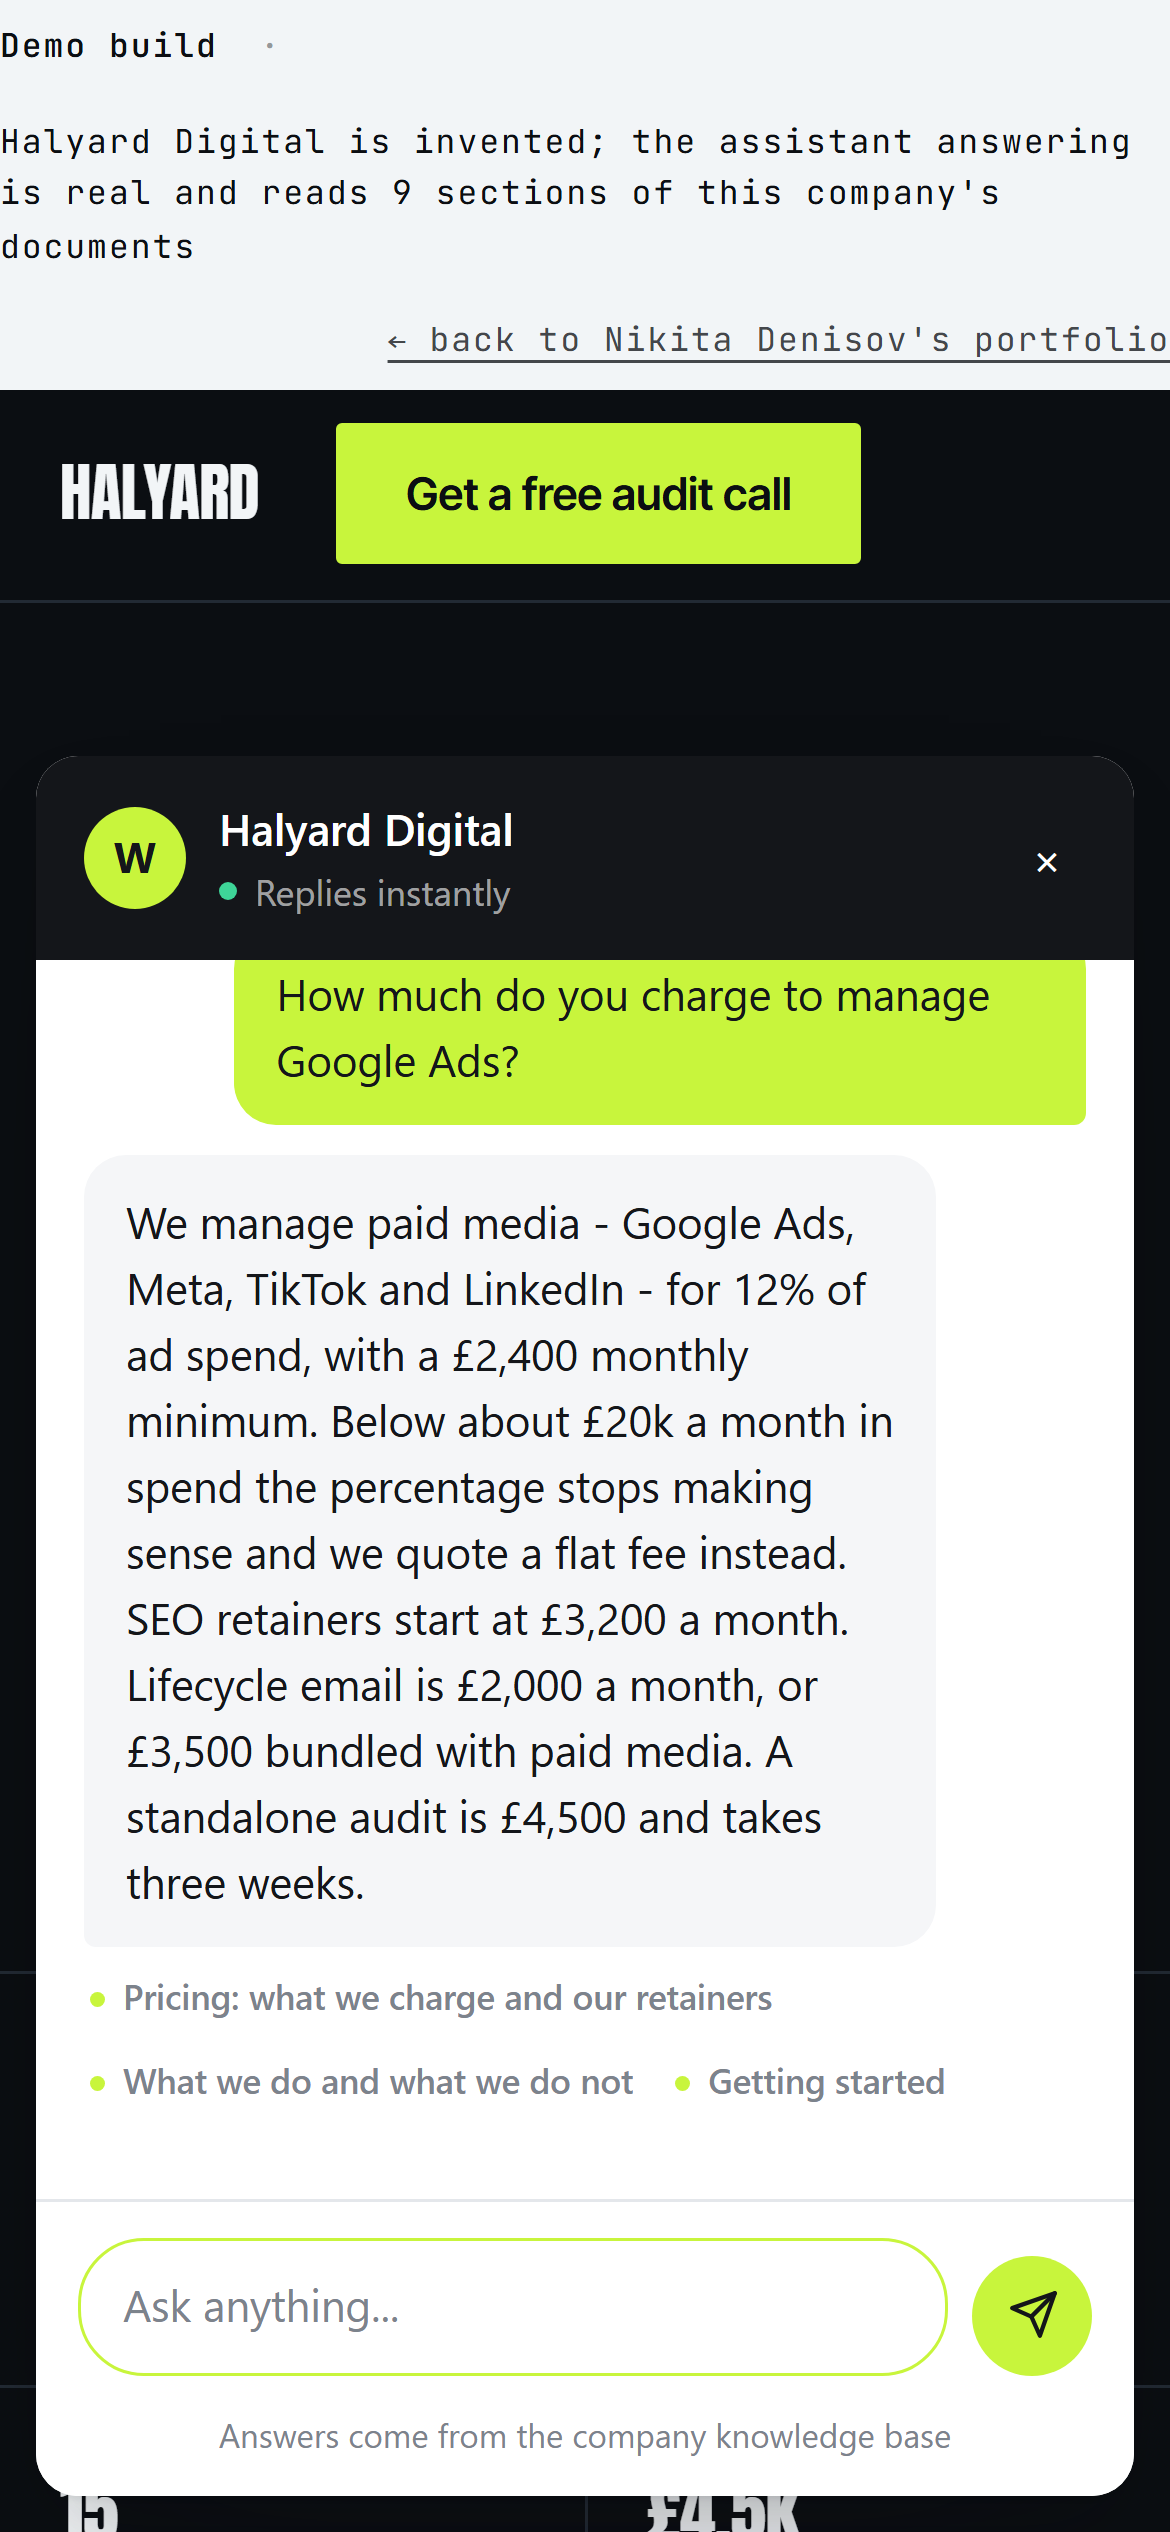
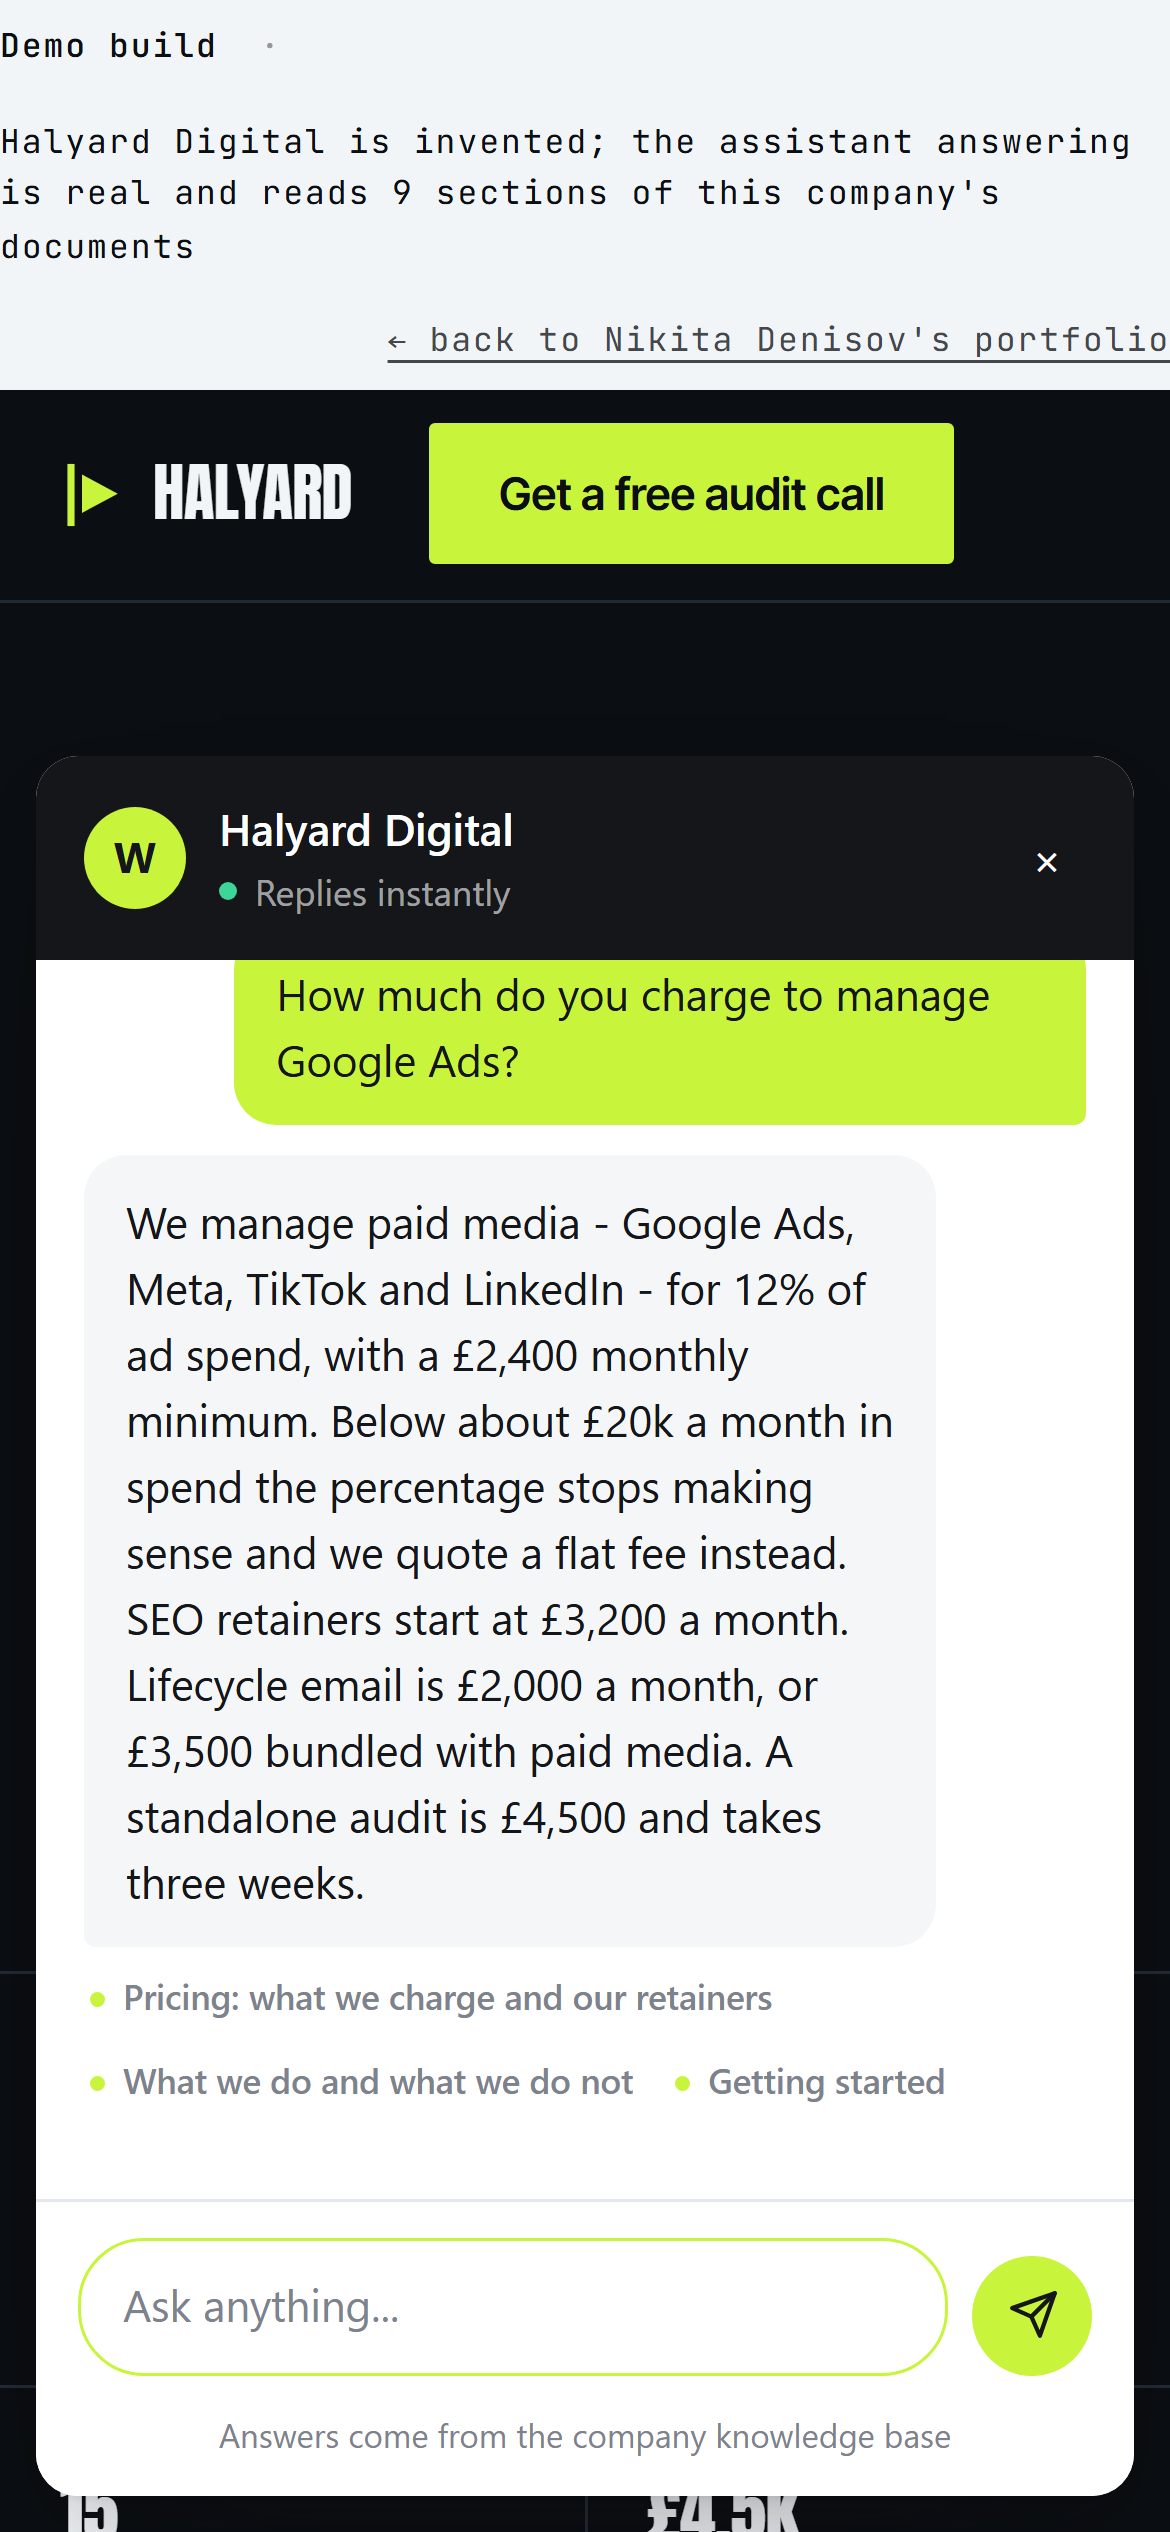
Give each demo business a logomark drawn from its own name
Six marks, one per company, as inline SVG coloured by currentColor so each one
takes its own brand accent. On the front page the mark replaces the colour chip
on the instance card, which identified nothing; on a business page it forms a
nav lockup with the wordmark and reappears quietly in the footer.

Five independent companies would not share a drawing style, so these do not:
Halyard is solid and blunt to hold its own next to Anton, Latchkey a rounded
monoline, Kestrel engraved fine-line for the high-contrast serif, Northlight
flat geometric, Havenridge two flat peaks with depth. Each derives from the
company's name rather than from the usual stock vocabulary.

Two of them took three attempts, and the failures are worth recording because
they were the same failure twice: at 24px the eye snaps to the closest letter
or figure it already knows. Kestrel as a soft hovering bird read as an "n",
then as sharp swept wings it read as a "Y" - so it is now an engraved monogram
on a stationery rule, which cannot be misread and is what an estate agency of
that vintage would have used. Northlight as a lamp throwing three rays read as
a stick figure - head, body, two legs - so it is now the studio north window
with one pane lit. The four-point star it started as was worse than either: it
is the most over-used mark in the industry right now.

SVG rather than generated art: no API key, no bill, and a mark that can take
its colour from the brand it belongs to.
[…]

Changed region(s): [[0.0308, 0.156, 0.8308, 0.2496]]

diff --git a/web/business.html b/web/business.html
@@ -166,6 +166,15 @@
   .band p { margin: 12px 0 0; opacity: .88; max-width: 54ch; }
   .band .btn { background: var(--accent-ink); color: var(--accent); border-color: var(--accent-ink); }
 
+  /* ---------- logomark ---------- */
+  .mark {
+    display: inline-flex; align-items: center; gap: 9px;
+  }
+  .mark svg { width: 22px; height: 22px; flex: none; color: var(--accent); }
+  .foot-in { display: flex; align-items: center; gap: 10px; }
+  .foot-mark { display: inline-flex; opacity: .55; }
+  .foot-mark svg { width: 16px; height: 16px; }
+
   /* ---------- ask strip ---------- */
   .ask { padding: 0 0 clamp(44px, 6vw, 72px); }
   .ask-in { border: 1px dashed var(--line); border-radius: var(--radius); padding: 24px; }
@@ -297,7 +306,7 @@ function render(d) {
     </div></div>
 
     <header class="nav"><div class="wrap nav-in">
-      <a class="mark" href="#">${esc(p.mark)}</a>
+      <a class="mark" href="#">${d.logo}<span>${esc(p.mark)}</span></a>
       <nav class="nav-links">${p.nav.map((n) =>
         `<a href="#offer">${esc(n)}</a>`).join("")}</nav>
       <button class="btn" data-ask="${esc(p.questions[0] || "")}">${esc(p.hero.cta)}</button>
@@ -332,7 +341,7 @@ function render(d) {
       </div></div></div>
     </main>
 
-    <footer class="foot"><div class="wrap">${esc(p.footer)}</div></footer>`;
+    <footer class="foot"><div class="wrap foot-in"><span class="foot-mark">${d.logo}</span><span>${esc(p.footer)}</span></div></footer>`;
 
   document.querySelectorAll("[data-ask]").forEach((b) =>
     b.addEventListener("click", () => {

diff --git a/web/portfolio.html b/web/portfolio.html
@@ -355,7 +355,10 @@
     display: flex; align-items: center; gap: 7px;
   }
   .card .go { margin-left: auto; color: var(--flow); font-size: 14px; }
-  .swatch { width: 11px; height: 11px; border-radius: 3px; flex: none; }
+  /* Each company's own mark, in its own accent - it identifies the card
+     better than the colour chip it replaced. */
+  .c-mark { display: block; margin-bottom: 11px; }
+  .c-mark svg { width: 26px; height: 26px; }
 
   /* ---------- what I build ---------- */
   .builds { display: grid; grid-template-columns: repeat(auto-fit, minmax(252px, 1fr)); gap: 26px 32px; }
@@ -874,10 +877,11 @@
       var k = e[0], s = e[1];
       var href = k === "demo" ? "/demo" : "/b/" + k;
       return '<a class="card" href="' + esc(href) + '">' +
+        '<span class="c-mark" style="color:' + esc(s.accent) + '">' + (s.logo || "") + "</span>" +
         '<span class="tag">' + esc(s.industry) + "</span>" +
         "<h3>" + esc(s.company) + "</h3>" +
         '<p class="co">' + esc(s.tagline) + "</p>" +
-        '<div class="kb"><span class="swatch" style="background:' + esc(s.accent) + '"></span>' +
+        '<div class="kb">' +
         '<span class="tag">' + s.knowledge.n + " sections</span>" +
         '<span class="go" aria-hidden="true">Open →</span></div></a>';
     }).join("");

diff --git a/app/sites.py b/app/sites.py
@@ -445,6 +445,82 @@ PAGES: dict[str, dict[str, Any]] = {
 }
 
 
+# --- logomarks --------------------------------------------------------------
+# Inline SVG, sized by CSS, coloured by currentColor so each mark inherits the
+# ink of whatever it sits on and can be tinted with the brand accent. These are
+# constants in this file, not user input, which is why the templates are free
+# to inject them as markup.
+LOGOS: dict[str, str] = {
+    # A halyard is the rope that hoists a sail. Mast plus hoisted sail, solid
+    # and blunt, to sit next to Anton without looking timid.
+    "agency": (
+        '<svg viewBox="0 0 24 24" fill="none" aria-hidden="true">'
+        '<path d="M4 2v20" stroke="currentColor" stroke-width="2.6" stroke-linecap="square"/>'
+        '<path d="M8 4.5 21 11.5 8 18.5Z" fill="currentColor"/>'
+        "</svg>"
+    ),
+    # Latchkey: a key. Rounded monoline, the friendliest possible reading of a
+    # product that unlocks somebody's scheduling day.
+    "saas": (
+        '<svg viewBox="0 0 24 24" fill="none" stroke="currentColor" '
+        'stroke-width="1.9" stroke-linecap="round" stroke-linejoin="round" aria-hidden="true">'
+        '<circle cx="8.5" cy="8.5" r="4.6"/>'
+        '<path d="M11.9 11.9 20.5 20.5"/>'
+        '<path d="M18.4 18.4 16.3 20.5"/>'
+        '<path d="M15.6 15.6 13.5 17.7"/>'
+        "</svg>"
+    ),
+    # An engraved K on a stationery rule, with the upper arm swept long like a
+    # wing. Two attempts at drawing the kestrel itself collapsed into a nearer
+    # glyph - first an "n", then a "Y" - because at 24px the eye snaps to the
+    # closest letter it knows. A monogram cannot be misread, and it is what an
+    # estate agency of this vintage would have used anyway.
+    "realty": (
+        '<svg viewBox="0 0 24 24" fill="none" stroke="currentColor" '
+        'stroke-width="1.4" stroke-linecap="round" aria-hidden="true">'
+        '<path d="M6 3.6v13.8"/>'
+        '<path d="M18.6 3.6 8.4 11.1"/>'
+        '<path d="M10.9 9.3 18.6 17.4"/>'
+        '<path d="M3.4 21h17.2" stroke-width="1"/>'
+        "</svg>"
+    ),
+    # A north light is a studio's north-facing window: steady, even, no glare.
+    # Drawn as the window with one pane lit. The obvious alternatives both
+    # failed - a four-point star is the most over-used mark in the industry,
+    # and a lamp throwing rays read as a stick figure.
+    "coaching": (
+        '<svg viewBox="0 0 24 24" fill="none" aria-hidden="true">'
+        '<path d="M12 4.2h7.8V12H12Z" fill="currentColor"/>'
+        '<g stroke="currentColor" stroke-width="1.4" stroke-linejoin="round">'
+        '<rect x="4.2" y="4.2" width="15.6" height="15.6" rx="1.2"/>'
+        '<path d="M12 4.2v15.6"/><path d="M4.2 12h15.6"/>'
+        "</g></svg>"
+    ),
+    # Havenridge: a ridge is two peaks and the shelter between them. The near
+    # peak solid, the far one outlined, so the mark has depth at 20px.
+    "recruiting": (
+        '<svg viewBox="0 0 24 24" fill="none" aria-hidden="true">'
+        '<path d="M8 3.5 14.6 14.5H1.4Z" stroke="currentColor" stroke-width="1.8" '
+        'stroke-linejoin="round"/>'
+        '<path d="M15.8 9.5 22.6 20.5H9Z" fill="currentColor"/>'
+        "</svg>"
+    ),
+    # Northwind: a compass rose, cardinal north filled.
+    "demo": (
+        '<svg viewBox="0 0 24 24" fill="none" aria-hidden="true">'
+        '<circle cx="12" cy="12" r="9.2" stroke="currentColor" stroke-width="1.6"/>'
+        '<path d="M12 3.6 14.4 12 12 20.4 9.6 12Z" fill="currentColor"/>'
+        '<path d="M3.6 12h16.8" stroke="currentColor" stroke-width="1.6"/>'
+        "</svg>"
+    ),
+}
+
+
+def logo(site: str) -> str:
+    """The mark for a site, or an empty string where there is none."""
+    return LOGOS.get(site, "")
+
+
 def page(site: str) -> dict[str, Any] | None:
     return PAGES.get(site)
 

diff --git a/scripts/smoke_test.py b/scripts/smoke_test.py
@@ -237,6 +237,19 @@ def main() -> int:
               len({t["bg"] for t in themes}) == len(themes))
         check("each business has its own typeface",
               len({t["display"] for t in themes}) == len(themes))
+        # A business without a mark renders a nav lockup with a hole in it, and
+        # an instance card on the front page with nothing to identify it.
+        for key in list(_sites.PAGES) + ["demo"]:
+            mark = _sites.logo(key)
+            check(f"{key} has a logomark",
+                  mark.startswith("<svg") and "currentColor" in mark)
+        check("no two businesses share a mark",
+              len({_sites.logo(k) for k in _sites.LOGOS}) == len(_sites.LOGOS))
+        check("the front page serves the marks",
+              all(s.get("logo") for k, s in
+                  client.get("/api/health").json()["sites"].items()
+                  if s.get("vertical")))
+
         check("hero layouts vary",
               len({p["layout"] for p in _sites.PAGES.values()}) >= 3,
               ", ".join(sorted({p["layout"] for p in _sites.PAGES.values()})))

diff --git a/app/main.py b/app/main.py
@@ -135,7 +135,8 @@ def health() -> dict[str, Any]:
         "status": "ok",
         "provider": config.LLM_PROVIDER,
         "sites": {
-            name: {**conf, "knowledge": db.chunk_stats(name)}
+            name: {**conf, "knowledge": db.chunk_stats(name),
+                   "logo": sites.logo(name)}
             for name, conf in config.SITES.items()
         },
         "knowledge": db.chunk_stats(),
@@ -234,6 +235,7 @@ def site_payload(site: str) -> dict[str, Any]:
         "home": "/",
         "owner": config.OWNER_NAME,
         "page": page,
+        "logo": sites.logo(site),
         "fonts": sites.FONTS,
         "assistant": {
             "label": conf["label"],
